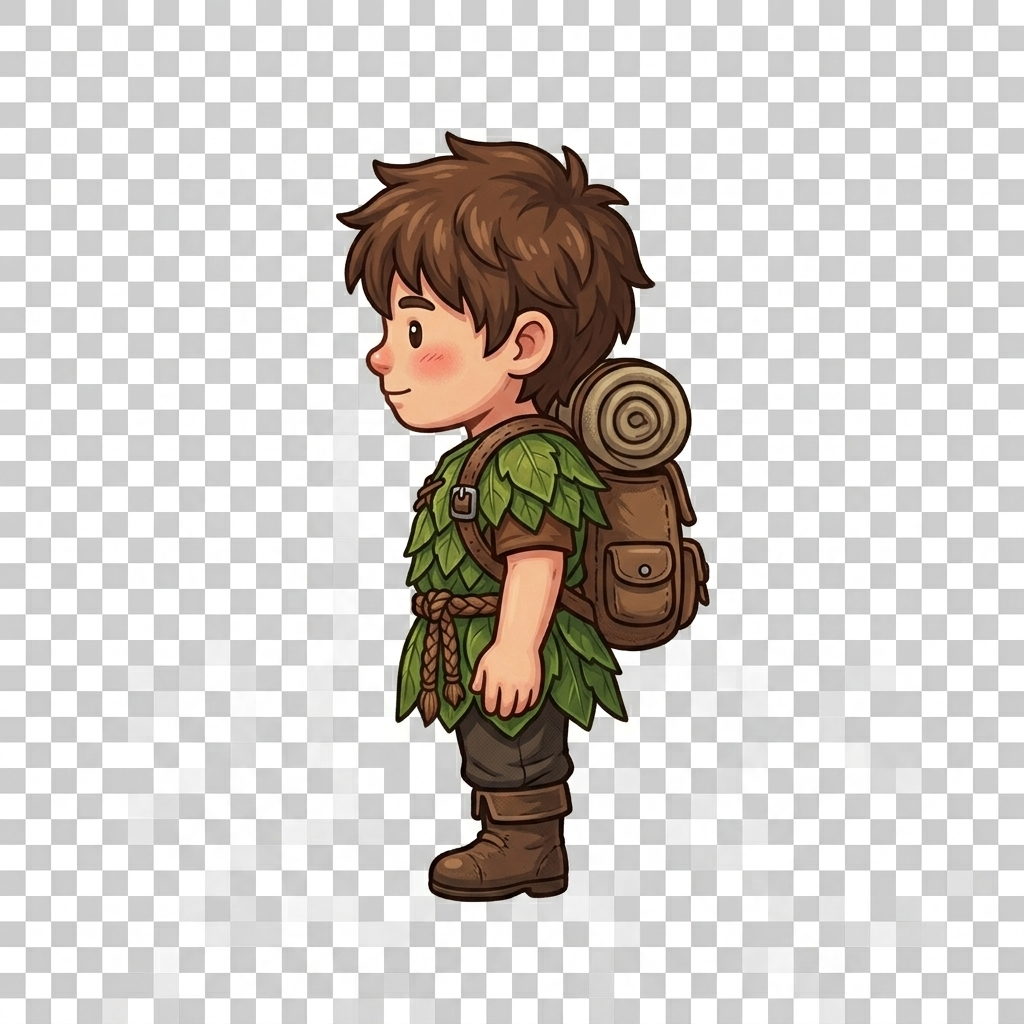
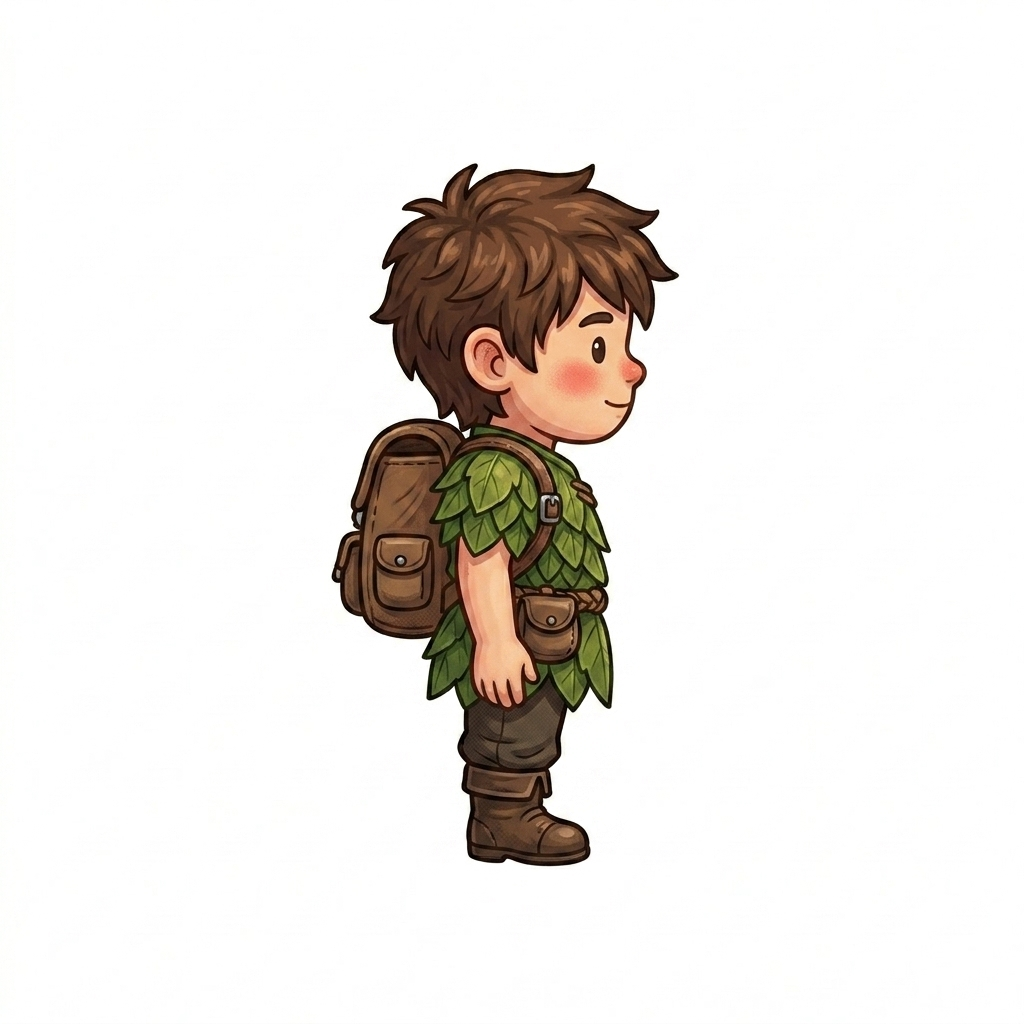
fix: player facing angle update and clean white backgrounds of back/profile sprites

diff --git a/index.html b/index.html
@@ -2537,6 +2537,9 @@ function update(dt){
     const hasBoots = player.inv && player.inv['bottes_hate'];
     
     let spd = player.spd * (sprint ? 1.55 : 1) * (onMud ? 0.6 : 1) * (hasBoots ? 1.2 : 1);
+    const wx = mouse.x + cam.x;
+    const wy = mouse.y + cam.y;
+    player.facing = Math.atan2(wy - player.y, wx - player.x);
     
     if (creativeMode) {
       player.stamina = player.maxstamina;
@@ -2646,6 +2649,9 @@ function update(dt){
   const onMud=map[(player.y/TS|0)*MW+(player.x/TS|0)]===7;
   const hasBoots = player.inv && player.inv['bottes_hate'];
   let spd=player.spd*(sprint?1.55:1)*(onMud?0.6:1)*(hasBoots?1.2:1);
+  const wx = mouse.x + cam.x;
+  const wy = mouse.y + cam.y;
+  player.facing = Math.atan2(wy - player.y, wx - player.x);
   
   if (creativeMode) {
     player.stamina = player.maxstamina;